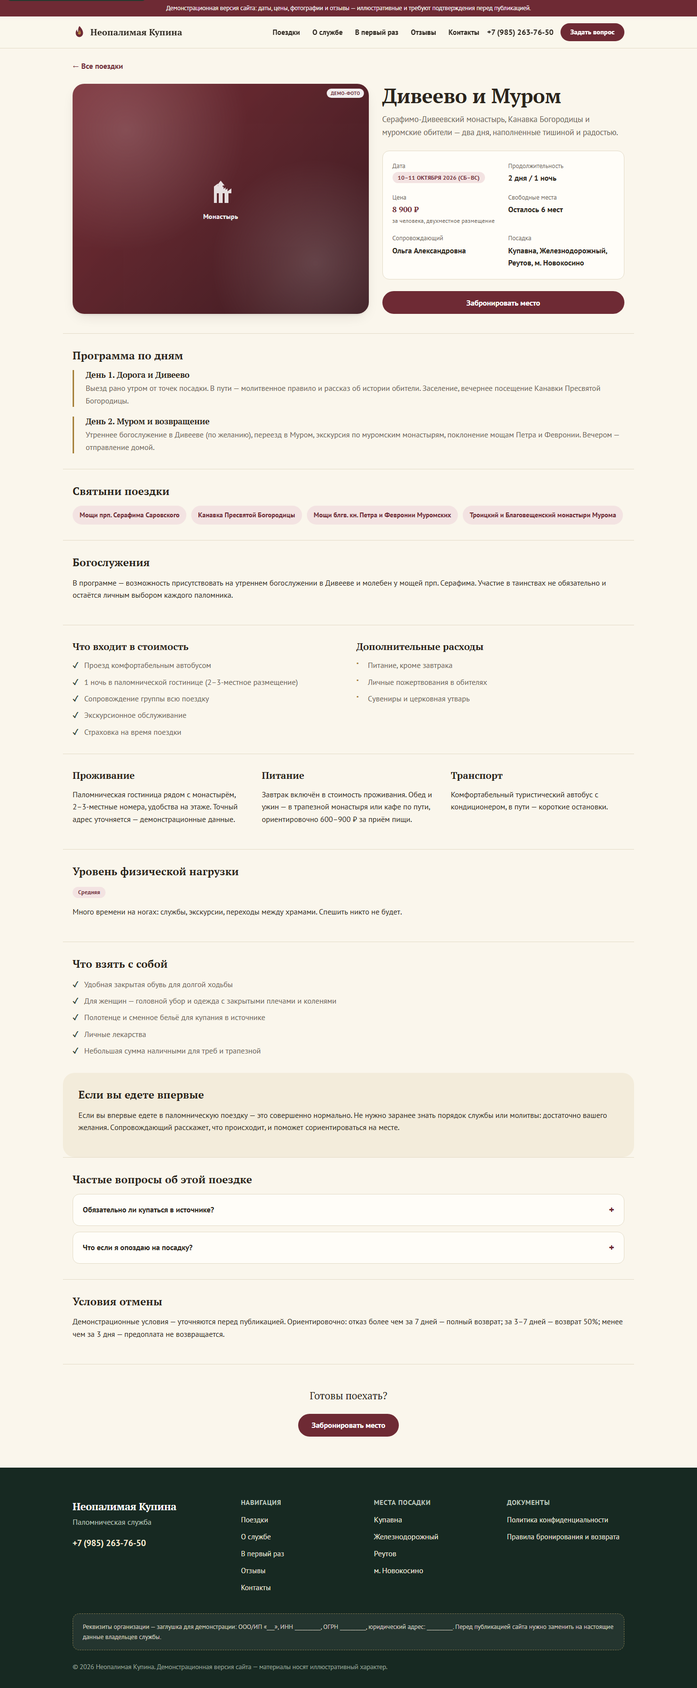
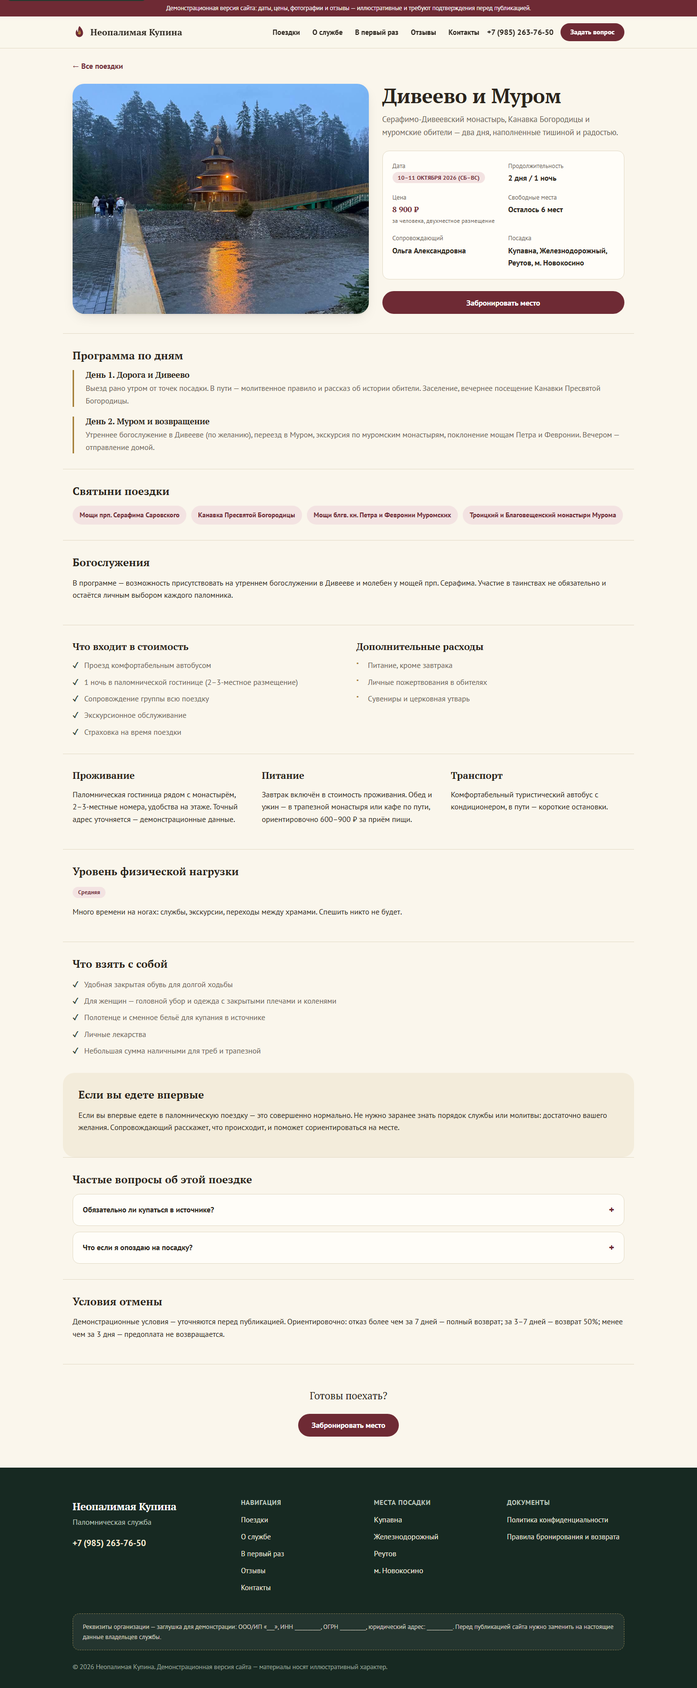
Добавить реальные фото из архива поездок вместо части заглушек
Заменили стилизованные CSS/SVG-заглушки на настоящие фото службы (главный
экран, 4 из 6 карточек поездок, галерея, блок «О службе», блок соцмиссии) —
отобрали и сжали снимки из архива kupina-palomnik.ru по названию поездки/
монастыря. Заглушки оставили там, где подходящего фото не нашлось (Псков,
Новгород, портрет сопровождающего — чтобы не подставлять случайное лицо под
имя реального человека). Обновили preview-скриншоты, README и CONTENT_NEEDED.

Changed region(s): [[0.0938, 0.031, 0.5312, 0.1859]]

diff --git a/src/data/content.ts b/src/data/content.ts
@@ -107,15 +107,59 @@ export interface GalleryItem {
   alt: string;
   caption: string;
   featured?: boolean;
+  /** Реальное фото из архива поездок службы (kupina-palomnik.ru). Если не задано — используется заглушка. */
+  photo?: string;
 }
 
 export const galleryItems: GalleryItem[] = [
-  { category: 'monastery', alt: 'Демонстрационное фото: монастырские купола', caption: 'Монастыри и обители', featured: true },
-  { category: 'road', alt: 'Демонстрационное фото: дорога паломнической группы', caption: 'Дорога к святым местам' },
-  { category: 'nature', alt: 'Демонстрационное фото: русская природа', caption: 'Природа средней полосы России' },
-  { category: 'group', alt: 'Демонстрационное фото: группа паломников на экскурсии', caption: 'Паломники в пути' },
-  { category: 'meal', alt: 'Демонстрационное фото: совместная трапеза', caption: 'Совместная трапеза' },
-  { category: 'care', alt: 'Демонстрационное фото: помощь друг другу в дороге', caption: 'Моменты взаимопомощи', featured: true },
-  { category: 'monastery', alt: 'Демонстрационное фото: монастырский двор', caption: 'Тишина монастырского двора' },
-  { category: 'nature', alt: 'Демонстрационное фото: озеро и лес', caption: 'Остановки среди природы' },
+  {
+    category: 'monastery',
+    alt: 'Троице-Сергиева Лавра. Фото из архива поездок службы',
+    caption: 'Монастыри и обители',
+    featured: true,
+    photo: '/photos/gallery-monastery-1.jpg',
+  },
+  {
+    category: 'road',
+    alt: 'Группа паломников по дороге к автобусу. Фото из архива поездок службы',
+    caption: 'Дорога к святым местам',
+    photo: '/photos/gallery-road.jpg',
+  },
+  {
+    category: 'nature',
+    alt: 'Колокольня у пруда с кувшинками в Годенове. Фото из архива поездок службы',
+    caption: 'Природа средней полосы России',
+    photo: '/photos/gallery-nature-1.jpg',
+  },
+  {
+    category: 'group',
+    alt: 'Группа паломников у монастыря в Годенове. Фото из архива поездок службы',
+    caption: 'Паломники в пути',
+    photo: '/photos/gallery-group.jpg',
+  },
+  {
+    category: 'meal',
+    alt: 'Паломники за чаепитием. Фото из архива поездок службы',
+    caption: 'Совместная трапеза',
+    photo: '/photos/gallery-meal.jpg',
+  },
+  {
+    category: 'care',
+    alt: 'Паломники в храме слушают рассказ сопровождающего. Фото из архива поездок службы',
+    caption: 'Моменты взаимопомощи',
+    featured: true,
+    photo: '/photos/gallery-care.jpg',
+  },
+  {
+    category: 'monastery',
+    alt: 'Поклонный крест у монастырской стены в Годенове. Фото из архива поездок службы',
+    caption: 'Тишина монастырского двора',
+    photo: '/photos/gallery-monastery-2.jpg',
+  },
+  {
+    category: 'nature',
+    alt: 'Монастырский сад. Фото из архива поездок службы',
+    caption: 'Остановки среди природы',
+    photo: '/photos/gallery-nature-2.jpg',
+  },
 ];

diff --git a/src/data/trips.ts b/src/data/trips.ts
@@ -42,6 +42,8 @@ export interface Trip {
   seatsLeft: number;
   photoCategory: PhotoCategory;
   photoAlt: string;
+  /** Реальное фото из архива поездок службы (kupina-palomnik.ru). Если не задано — используется заглушка. */
+  photo?: string;
   program: TripProgramDay[];
   shrines: string[];
   services: string;
@@ -74,7 +76,8 @@ export const trips: Trip[] = [
     pickupPoints: ['Купавна', 'Железнодорожный', 'Реутов', 'м. Новокосино'],
     seatsLeft: 6,
     photoCategory: 'monastery',
-    photoAlt: 'Демонстрационное фото: Серафимо-Дивеевский монастырь',
+    photoAlt: 'Часовня у источника в Дивееве. Фото из архива поездок службы',
+    photo: '/photos/trip-diveevo.jpg',
     program: [
       {
         title: 'День 1. Дорога и Дивеево',
@@ -148,7 +151,8 @@ export const trips: Trip[] = [
     pickupPoints: ['Купавна', 'Железнодорожный', 'Реутов', 'м. Новокосино'],
     seatsLeft: 4,
     photoCategory: 'nature',
-    photoAlt: 'Демонстрационное фото: леса и дорога вокруг Оптиной пустыни',
+    photoAlt: 'Группа паломников у ворот Оптиной пустыни. Фото из архива поездок службы',
+    photo: '/photos/trip-optina.jpg',
     program: [
       {
         title: 'День 1. Оптина пустынь',
@@ -208,7 +212,8 @@ export const trips: Trip[] = [
     pickupPoints: ['Купавна', 'Железнодорожный', 'Реутов', 'м. Новокосино'],
     seatsLeft: 12,
     photoCategory: 'road',
-    photoAlt: 'Демонстрационное фото: дорога через поля Ярославской области',
+    photoAlt: 'Годеново зимой. Фото из архива поездок службы',
+    photo: '/photos/trip-godenovo.jpg',
     program: [
       {
         title: 'Утро',
@@ -336,7 +341,8 @@ export const trips: Trip[] = [
     pickupPoints: ['Купавна', 'Железнодорожный', 'Реутов', 'м. Новокосино'],
     seatsLeft: 15,
     photoCategory: 'monastery',
-    photoAlt: 'Демонстрационное фото: Толгский монастырь на берегу Волги',
+    photoAlt: 'Успенский собор в Ярославле. Фото из архива поездок службы',
+    photo: '/photos/trip-yaroslavl.jpg',
     program: [
       { title: 'Утро', description: 'Выезд от точек посадки, дорога с рассказом об истории Ярославской земли.' },
       { title: 'День', description: 'Экскурсия по Ярославлю, посещение Толгского монастыря и кедровой рощи, переезд в Тутаев.' },

diff --git a/src/components/GallerySection.tsx b/src/components/GallerySection.tsx
@@ -1,5 +1,5 @@
 import { galleryItems } from '../data/content';
-import PlaceholderPhoto from './PlaceholderPhoto';
+import Photo from './Photo';
 import './GallerySection.css';
 
 export default function GallerySection() {
@@ -17,14 +17,14 @@ export default function GallerySection() {
         <ul className="gallery-grid">
           {galleryItems.map((item, index) => (
             <li key={`${item.category}-${index}`} className={item.featured ? 'gallery-grid__item--featured' : ''}>
-              <PlaceholderPhoto category={item.category} alt={item.alt} className="gallery-photo" />
+              <Photo src={item.photo} category={item.category} alt={item.alt} className="gallery-photo" />
               <span className="gallery-caption">{item.caption}</span>
             </li>
           ))}
         </ul>
         <p className="demo-callout gallery-note">
-          Все фотографии на этой странице — демонстрационные заглушки. Перед публикацией сайта их нужно заменить на
-          настоящие фотографии службы.
+          Фотографии — из архива поездок службы разных лет, подобраны для наглядности прототипа. Перед публикацией
+          сайта нужно подтвердить права на использование каждого снимка и при необходимости заменить более новыми.
         </p>
       </div>
     </section>

diff --git a/src/components/SocialMissionSection.tsx b/src/components/SocialMissionSection.tsx
@@ -1,6 +1,6 @@
 import { useModal } from '../context/ModalContext';
 import { SocialMissionContent } from './InfoModals';
-import PlaceholderPhoto from './PlaceholderPhoto';
+import Photo from './Photo';
 import './SocialMissionSection.css';
 
 export default function SocialMissionSection() {
@@ -10,7 +10,12 @@ export default function SocialMissionSection() {
     <section className="section section--alt social-mission" aria-label="Социальная миссия">
       <div className="container social-mission__inner">
         <div className="social-mission__media">
-          <PlaceholderPhoto category="group" alt="Демонстрационное фото: паломническая группа у монастыря" className="social-mission__photo" />
+          <Photo
+            src="/photos/social-group.jpg"
+            category="group"
+            alt="Паломническая группа у Коломенского кремля. Фото из архива поездок службы"
+            className="social-mission__photo"
+          />
         </div>
         <div className="social-mission__text">
           <p className="section-kicker">Социальная миссия</p>

diff --git a/src/components/Hero.tsx b/src/components/Hero.tsx
@@ -2,7 +2,7 @@ import { Link } from 'react-router-dom';
 import { PICKUP_POINTS } from '../data/constants';
 import { useModal } from '../context/ModalContext';
 import { ContactQuestionContent } from './InfoModals';
-import PlaceholderPhoto from './PlaceholderPhoto';
+import Photo from './Photo';
 import './Hero.css';
 
 export default function Hero() {
@@ -33,7 +33,12 @@ export default function Hero() {
           <p className="hero__pickup">Посадка: {PICKUP_POINTS.join(' · ')}</p>
         </div>
         <div className="hero__media">
-          <PlaceholderPhoto category="monastery" alt="Демонстрационное фото: монастырь в утреннем свете" className="hero__photo" />
+          <Photo
+            src="/photos/hero-lavra.jpg"
+            category="monastery"
+            alt="Николо-Сольбинский монастырь зимой. Фото из архива поездок службы"
+            className="hero__photo"
+          />
         </div>
       </div>
     </section>

diff --git a/src/pages/TripDetailPage.tsx b/src/pages/TripDetailPage.tsx
@@ -5,7 +5,7 @@ import { useDocumentMeta } from '../hooks/useDocumentMeta';
 import { useModal } from '../context/ModalContext';
 import { formatPrice, seatsLabel } from '../utils/format';
 import BookingForm from '../components/BookingForm';
-import PlaceholderPhoto from '../components/PlaceholderPhoto';
+import Photo from '../components/Photo';
 import Accordion from '../components/Accordion';
 import './TripDetailPage.css';
 
@@ -32,7 +32,7 @@ export default function TripDetailPage() {
       </div>
 
       <section className="trip-detail__hero container">
-        <PlaceholderPhoto category={trip.photoCategory} alt={trip.photoAlt} className="trip-detail__photo" />
+        <Photo src={trip.photo} category={trip.photoCategory} alt={trip.photoAlt} className="trip-detail__photo" />
         <div className="trip-detail__intro">
           <h1>{trip.title}</h1>
           <p className="trip-detail__desc">{trip.shortDescription}</p>

diff --git a/src/components/TripCard.tsx b/src/components/TripCard.tsx
@@ -3,7 +3,7 @@ import type { Trip } from '../data/trips';
 import { formatPrice, seatsLabel } from '../utils/format';
 import { useModal } from '../context/ModalContext';
 import BookingForm from './BookingForm';
-import PlaceholderPhoto from './PlaceholderPhoto';
+import Photo from './Photo';
 import './TripCard.css';
 
 export default function TripCard({ trip }: { trip: Trip }) {
@@ -13,7 +13,7 @@ export default function TripCard({ trip }: { trip: Trip }) {
   return (
     <article className="trip-card">
       <div className="trip-card__media">
-        <PlaceholderPhoto category={trip.photoCategory} alt={trip.photoAlt} />
+        <Photo src={trip.photo} category={trip.photoCategory} alt={trip.photoAlt} />
         <span className="trip-card__date demo-note">{trip.date}</span>
       </div>
       <div className="trip-card__body">

diff --git a/src/components/MissionSection.tsx b/src/components/MissionSection.tsx
@@ -1,4 +1,4 @@
-import PlaceholderPhoto from './PlaceholderPhoto';
+import Photo from './Photo';
 import './MissionSection.css';
 
 const POINTS = [
@@ -41,7 +41,12 @@ export default function MissionSection() {
           </ul>
         </div>
         <div className="mission__media">
-          <PlaceholderPhoto category="care" alt="Демонстрационное фото: паломники помогают друг другу в дороге" className="mission__photo" />
+          <Photo
+            src="/photos/mission-care.jpg"
+            category="care"
+            alt="Паломницы обнимаются у монастыря. Фото из архива поездок службы"
+            className="mission__photo"
+          />
         </div>
       </div>
     </section>

diff --git a/src/components/Photo.tsx b/src/components/Photo.tsx
@@ -1,0 +1,18 @@
+import type { PhotoCategory } from '../data/trips';
+import PlaceholderPhoto from './PlaceholderPhoto';
+import './Photo.css';
+
+interface PhotoProps {
+  src?: string;
+  category: PhotoCategory;
+  alt: string;
+  className?: string;
+}
+
+export default function Photo({ src, category, alt, className }: PhotoProps) {
+  if (!src) {
+    return <PlaceholderPhoto category={category} alt={alt} className={className} />;
+  }
+
+  return <img src={src} alt={alt} loading="lazy" className={`real-photo${className ? ` ${className}` : ''}`} />;
+}

diff --git a/src/components/Photo.css b/src/components/Photo.css
@@ -1,0 +1,6 @@
+.real-photo {
+  width: 100%;
+  height: 100%;
+  object-fit: cover;
+  object-position: center;
+}

diff --git a/CONTENT_NEEDED.md b/CONTENT_NEEDED.md
@@ -6,15 +6,23 @@
 
 ## 1. Фотографии
 
-Все фотографии на сайте — стилизованные заглушки (см. `src/components/PlaceholderPhoto.tsx`), а не реальные снимки.
-Нужны настоящие фотографии, на использование которых у службы есть права:
+Часть фотографий на сайте теперь взята из архива поездок службы (выгружены со старого сайта kupina-palomnik.ru,
+папка `photos/` рядом с проектом; отобранные и сжатые копии лежат в `public/photos`). Это реальные снимки, но
+использованы они здесь только для наглядности прототипа — **перед публикацией нужно подтвердить, что у службы есть
+права на каждую из них**, и при желании заменить более качественными/новыми:
 
-- Первый экран (главное фото службы/поездки).
-- Шесть карточек поездок на главной странице.
-- Фотография для страницы поездки «Дивеево и Муром» (и остальных поездок, если для них тоже будут отдельные страницы).
-- Фотография сопровождающего (раздел «Ваш сопровождающий»).
-- Галерея (8 фото): монастыри, дорога, природа, паломники, совместная трапеза, моменты взаимопомощи.
-- Фото для блока социальной миссии.
+- Первый экран — фото Николо-Сольбинского монастыря и Троице-Сергиевой Лавры (поездка 28 февраля 2026).
+- Карточки и страницы четырёх поездок — «Дивеево и Муром», «Оптина пустынь, Шамордино и Клыково», «Годеново и
+  Переславль-Залесский», «Ярославль, Толгский монастырь и Тутаев» — используют фото соответствующих или ближайших по
+  смыслу поездок из архива. У поездок «Псков, Печоры и Талабские острова» и «Великий Новгород и Валдай» подходящих
+  фото в архиве не нашлось — там остаются стилизованные заглушки (см. `src/components/PlaceholderPhoto.tsx`), нужны
+  реальные фото с этих направлений.
+- Блок «О службе» (взаимопомощь) и блок социальной миссии — фото из архива, подобранные по смыслу, а не с этих
+  конкретных мероприятий.
+- Галерея (8 фото) — фото из архива нескольких разных поездок.
+- Фотография сопровождающего (раздел «Ваш сопровождающий») — **осталась заглушкой**. На групповых архивных фото
+  невозможно достоверно определить, кто из паломников — Ольга Александровна, поэтому подставлять случайное лицо под
+  её имя мы не стали. Нужна её реальная фотография с подтверждением, что это действительно она.
 
 ## 2. Тексты и биография
 

diff --git a/README.md b/README.md
@@ -34,10 +34,12 @@ src/
 preview/          скриншоты главной страницы и страницы поездки (desktop и mobile)
 ```
 
-Фотографии на сайте — не изображения, а стилизованные CSS/SVG-заглушки (компонент `PlaceholderPhoto`) с подписью
-«демо-фото». Это осознанное решение: чтобы не использовать чужие фотографии без явной лицензии и не зависеть от
-внешних источников изображений при сборке. Перед публикацией их нужно заменить на реальные фотографии — см.
-CONTENT_NEEDED.md.
+Часть фотографий на сайте (главный экран, четыре из шести карточек поездок, галерея, блок «О службе» и блок
+социальной миссии) — реальные снимки из архива поездок службы, отобранные и сжатые копии лежат в `public/photos`
+(исходный архив — в `photos/` рядом с проектом, в репозиторий не попадает, см. `.gitignore`). Там, где подходящего
+архивного фото не нашлось (страница сопровождающего, две поездки без фото в архиве), остаются стилизованные CSS/SVG-
+заглушки (компонент `PlaceholderPhoto`) с подписью «демо-фото». Перед публикацией нужно подтвердить права на
+использование архивных фото и заменить оставшиеся заглушки на реальные снимки — см. CONTENT_NEEDED.md.
 
 ## Команды
 
